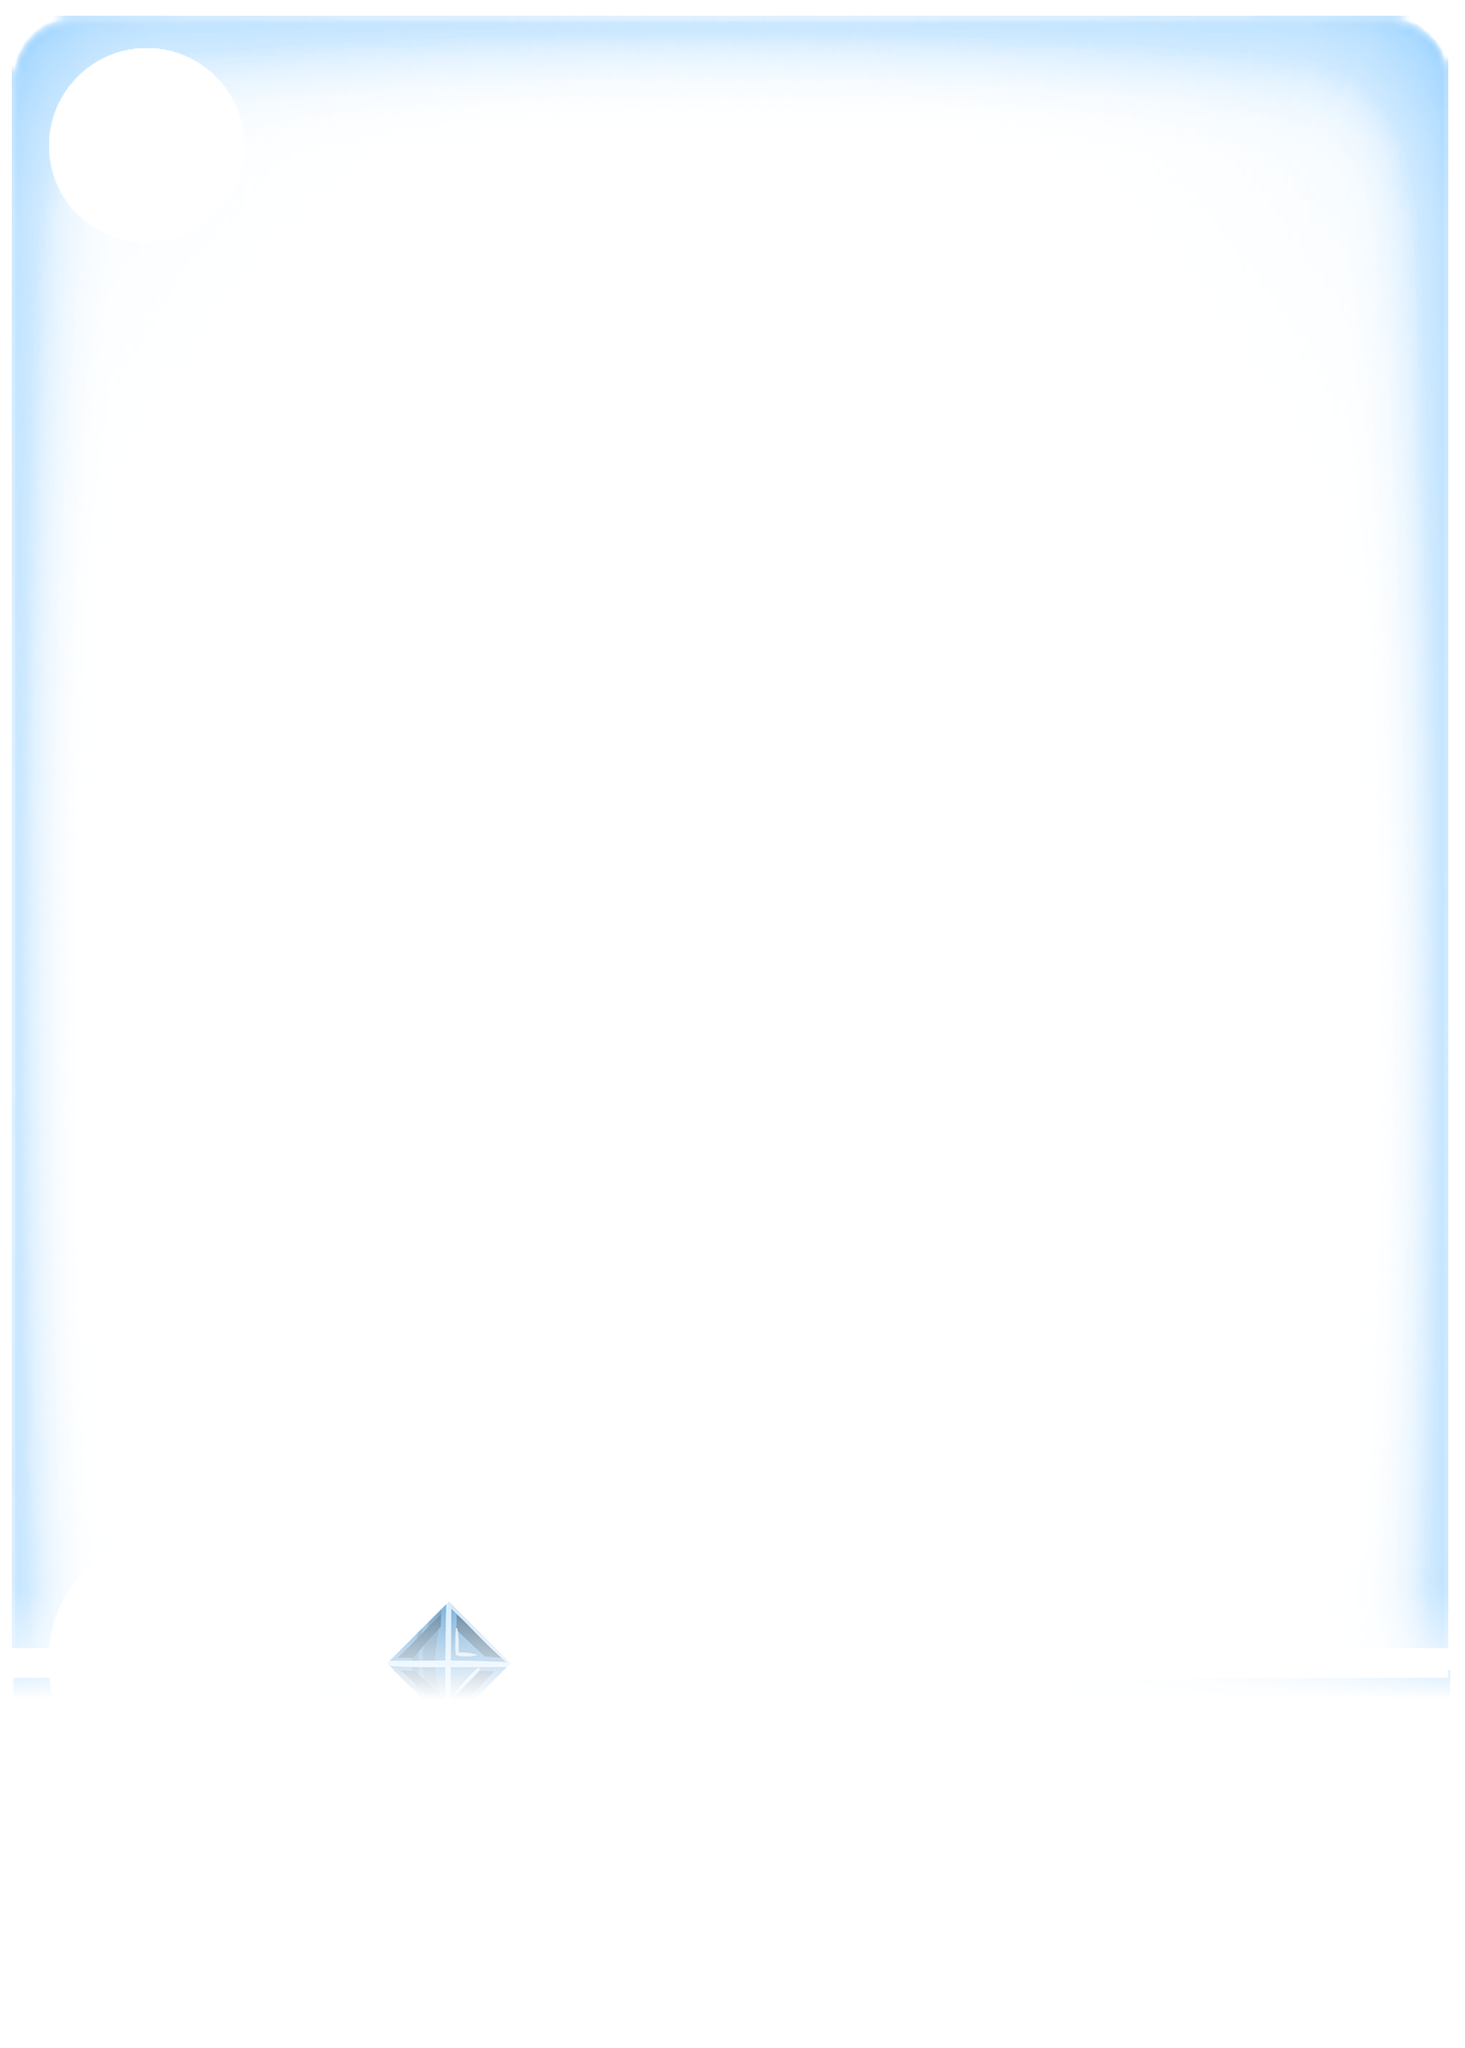
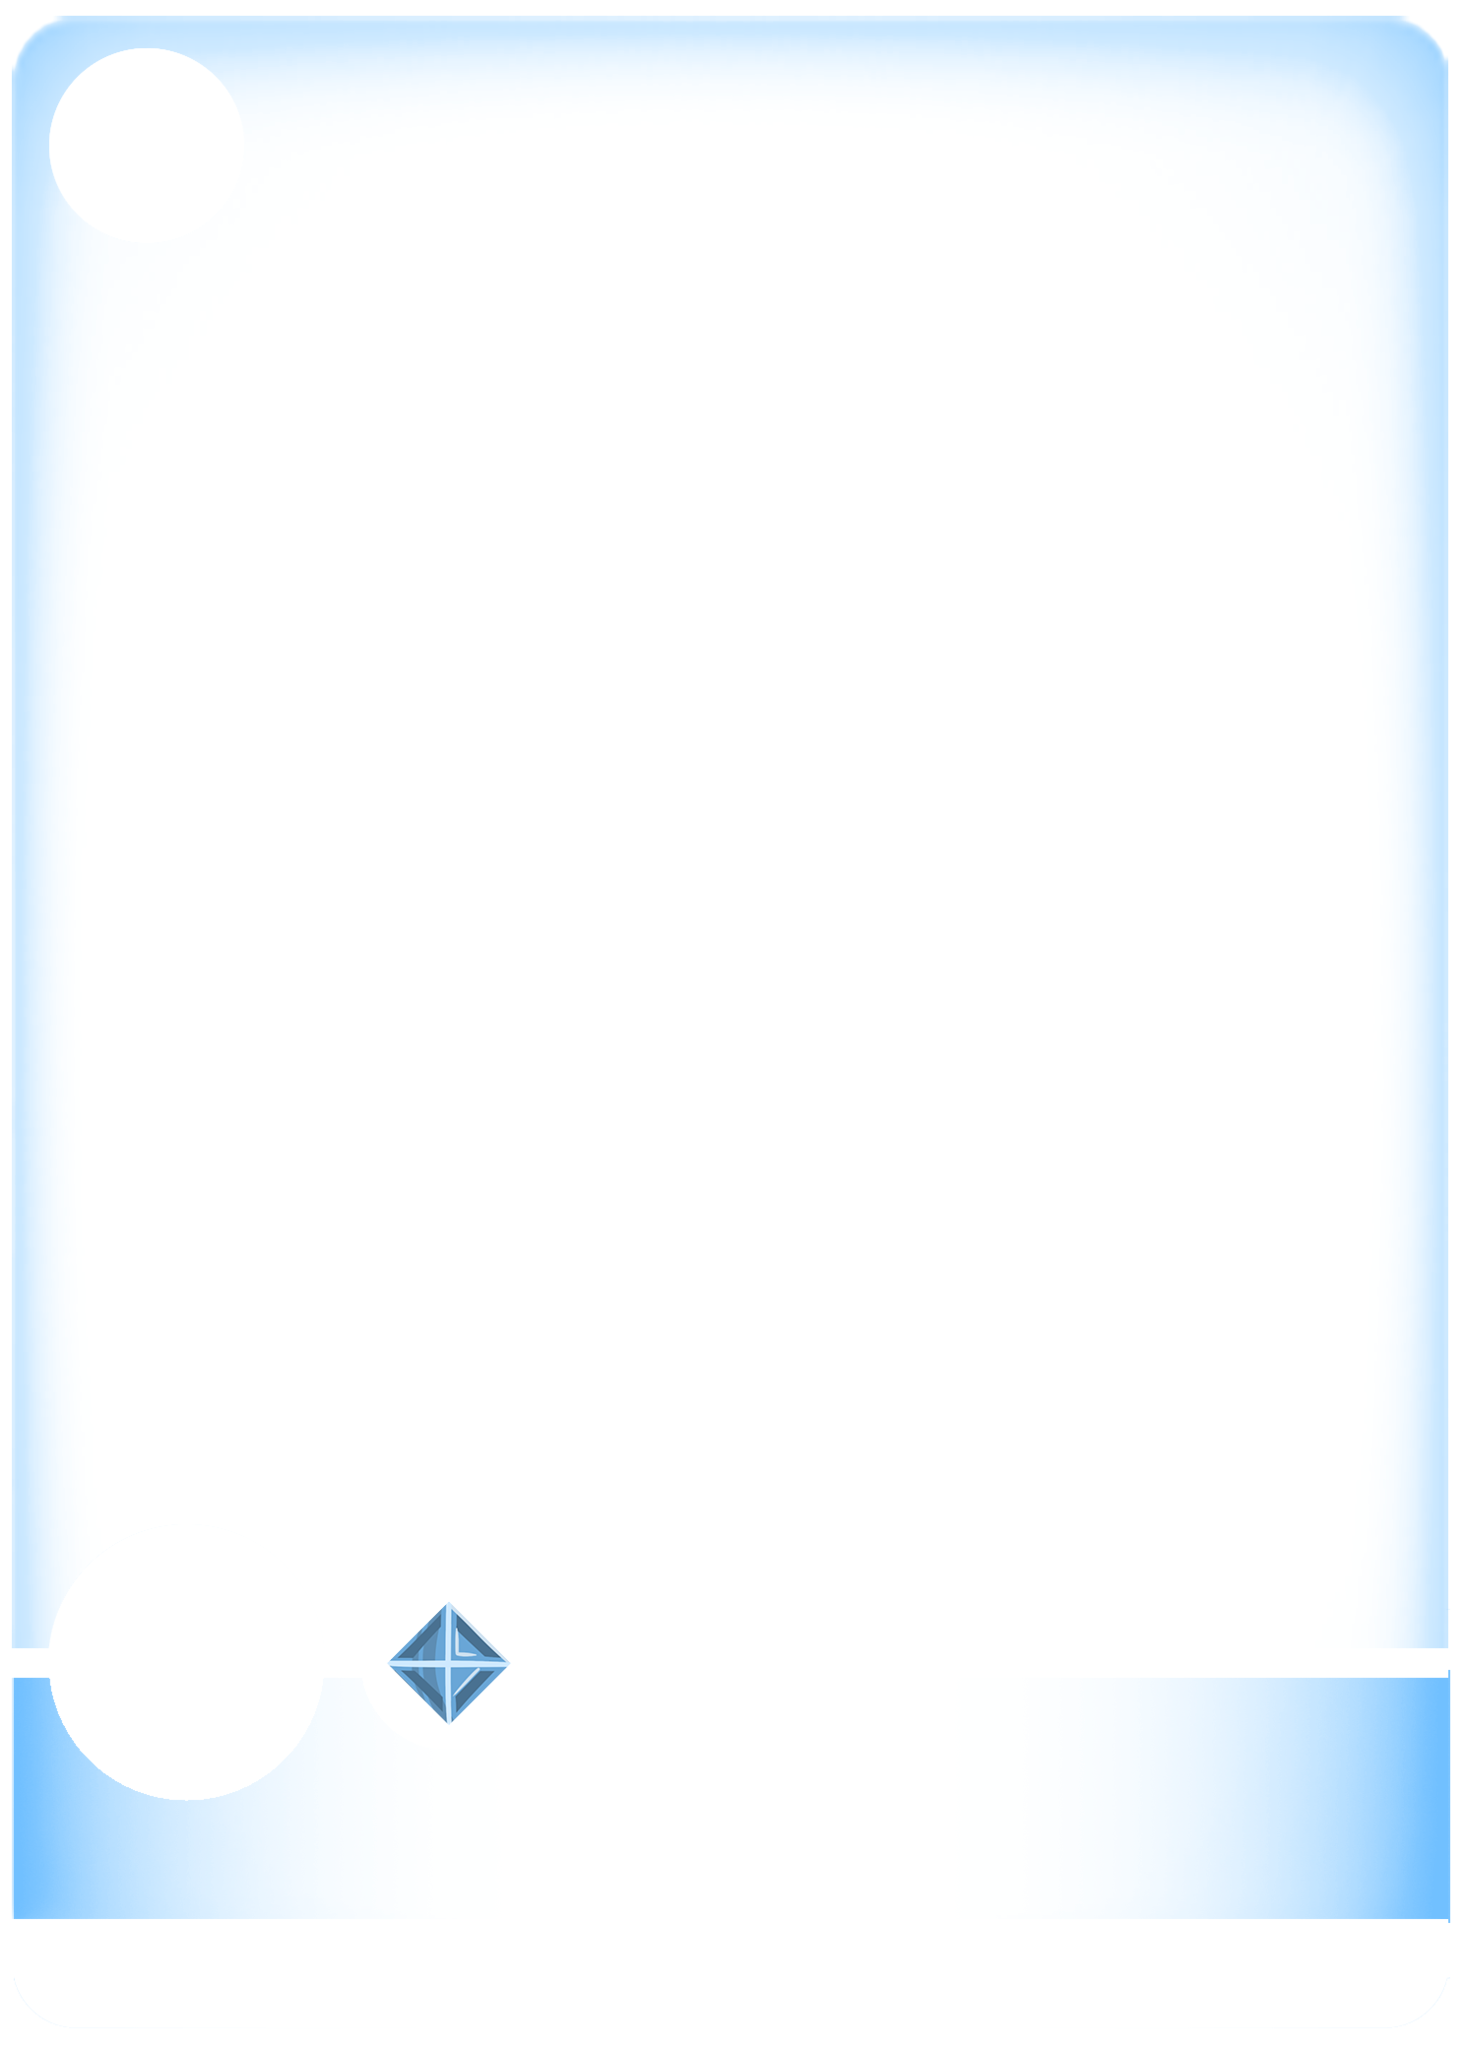
feat: split card layers (bg/smoke/pattern/body/text), static normal smoke

Changed region(s): [[0.7986, 0.8125, 1.0, 0.9375], [0.0, 0.8125, 0.1843, 0.9375], [0.2765, 0.7812, 0.3379, 0.8438]]

diff --git a/webcard.py b/webcard.py
@@ -2894,6 +2894,112 @@ def _detail_layer_js(rel: str | None, z: float = 0.030, order: float = 6.0) -> s
     )
 
 
+def _pattern_layer_js(rel: str | None, z: float = 0.014, order: float = 4.6) -> str:
+    """版本图案层（闪卡星点 / αβΩ 字样 / Promo 花纹）。
+
+    以前这些图案印在卡面底图里，3D 上又叠了一份卡封 → αβΩ 出现两份。
+    现在单独成层：加色混合（RGB 已经是「该加多少光」，黑底合成出来的），
+    位置在烟雾之上、主体层之下 —— 立绘照样把它遮住，与游戏一致。
+    """
+    if not rel:
+        return ""
+    vert = (
+        "varying vec2 vUv;\n"
+        "void main() { vUv = uv; gl_Position = projectionMatrix * modelViewMatrix * vec4(position, 1.0); }\n"
+    )
+    frag = (
+        "uniform sampler2D uMap;\n"
+        "varying vec2 vUv;\n"
+        "void main() { vec4 c = texture2D(uMap, vUv); gl_FragColor = vec4(c.rgb, 1.0); }\n"
+    )
+    return (
+        "(function () {\n"
+        "  var t = new THREE.TextureLoader().load(" + json.dumps(rel) + ");\n"
+        "  t.colorSpace = THREE.NoColorSpace;\n"
+        "  t.anisotropy = 8;\n"
+        "  t.minFilter = THREE.LinearMipmapLinearFilter;\n"
+        "  var m = new THREE.ShaderMaterial({\n"
+        "    uniforms: { uMap: { value: t } },\n"
+        "    vertexShader: " + json.dumps(vert) + ",\n"
+        "    fragmentShader: " + json.dumps(frag) + ",\n"
+        "    transparent: true, depthWrite: false, depthTest: true,\n"
+        "    blending: THREE.AdditiveBlending\n"
+        "  });\n"
+        "  var mesh = new THREE.Mesh(new THREE.PlaneGeometry(CARD_WIDTH, CARD_HEIGHT), m);\n"
+        "  mesh.position.set(0, 0, " + str(z) + ");\n"
+        "  mesh.renderOrder = " + str(order) + ";\n"
+        "  flipGroup.add(mesh);\n"
+        "})();\n"
+    )
+
+
+def _smoke_layer_js(rel: str | None, noise_rel: str | None = None,
+                    strength: float = 1.0, speed: float = 1.0, amt: float = 1.0,
+                    z: float = 0.008, order: float = 3.0) -> str:
+    """元素烟雾层（元素底纹）。amt>0 时做「无净平移的旋涡位移」。
+
+    位移用噪声梯度旋转 90° 当角速度（curl），净位移为 0 —— 是原地翻涌，
+    不是整块平面平移，所以底座与图案不会跟着走。amt=0 时原样直通（普通版不流动）。
+    """
+    if not rel:
+        return ""
+    moving = bool(noise_rel) and amt > 0.0
+    if not moving:
+        return _detail_layer_js(rel, z=z, order=order)
+    vert = (
+        "varying vec2 vUv;\n"
+        "void main() { vUv = uv; gl_Position = projectionMatrix * modelViewMatrix * vec4(position, 1.0); }\n"
+    )
+    frag = (
+        "uniform sampler2D uMap;\n"
+        "uniform sampler2D uNoise;\n"
+        "uniform float uTime, uSpeed, uAmt, uAspect;\n"
+        "varying vec2 vUv;\n"
+        "float smokeRound(vec2 uv, float radius) {\n"
+        "  vec2 scaled = vec2((uv.x - 0.5) * uAspect, uv.y - 0.5);\n"
+        "  vec2 halfSize = vec2(0.5 * uAspect, 0.5);\n"
+        "  vec2 edge = abs(scaled) - (halfSize - vec2(radius));\n"
+        "  return length(max(edge, 0.0)) + min(max(edge.x, edge.y), 0.0) - radius;\n"
+        "}\n"
+        "void main() {\n"
+        "  if (smokeRound(vUv, 0.032) > 0.0) discard;\n"
+        "  float ft = uTime * uSpeed;\n"
+        "  vec2 n1 = texture2D(uNoise, vUv * vec2(0.62, 0.82) + vec2(ft * 0.052, -ft * 0.040)).rg - 0.5;\n"
+        "  vec2 n2 = texture2D(uNoise, vUv * vec2(2.10, 2.70) + vec2(-ft * 0.095, ft * 0.072)).rg - 0.5;\n"
+        "  vec2 sw = vec2(-n1.y, n1.x) * 0.0215 + vec2(-n2.y, n2.x) * 0.0062;\n"
+        "  vec2 uv = clamp(vUv + sw * uAmt, 0.0, 1.0);\n"
+        "  vec4 c = texture2D(uMap, uv);\n"
+        "  gl_FragColor = vec4(c.rgb, c.a * " + str(float(strength)) + ");\n"
+        "}\n"
+    )
+    return (
+        "(function () {\n"
+        "  var t = new THREE.TextureLoader().load(" + json.dumps(rel) + ");\n"
+        "  t.colorSpace = THREE.NoColorSpace;\n"
+        "  t.anisotropy = 8;\n"
+        "  t.minFilter = THREE.LinearMipmapLinearFilter;\n"
+        "  var nt = new THREE.TextureLoader().load(" + json.dumps(noise_rel) + ");\n"
+        "  nt.wrapS = THREE.RepeatWrapping; nt.wrapT = THREE.RepeatWrapping;\n"
+        "  nt.colorSpace = THREE.NoColorSpace;\n"
+        "  var m = new THREE.ShaderMaterial({\n"
+        "    uniforms: { uMap: { value: t }, uNoise: { value: nt },\n"
+        "      uTime: { value: 0 }, uSpeed: { value: " + str(float(speed)) + " },\n"
+        "      uAmt: { value: " + str(float(amt)) + " },\n"
+        "      uAspect: { value: CARD_WIDTH / CARD_HEIGHT } },\n"
+        "    vertexShader: " + json.dumps(vert) + ",\n"
+        "    fragmentShader: " + json.dumps(frag) + ",\n"
+        "    transparent: true, depthWrite: false, depthTest: true,\n"
+        "    blending: THREE.NormalBlending\n"
+        "  });\n"
+        "  var mesh = new THREE.Mesh(new THREE.PlaneGeometry(CARD_WIDTH, CARD_HEIGHT), m);\n"
+        "  mesh.position.set(0, 0, " + str(z) + ");\n"
+        "  mesh.renderOrder = " + str(order) + ";\n"
+        "  flipGroup.add(mesh);\n"
+        "  (window.__flowMats = window.__flowMats || []).push(m);\n"
+        "})();\n"
+    )
+
+
 _SEAL_TICK_JS = (
     "  // 膜光效完全由视角驱动（拖动旋转触发）：无时间动画、无指针光球，杜绝频闪\n"
     "  // 例外：流动背景层只让**印刷背景**随时间漂移（立绘/UI 由掩码固定），\n"
@@ -3480,7 +3586,14 @@ def build_card_html(name: str, front_rel: str, foreground_rel: str, back_rel: st
                     seal_sheen_base: float = 0.03,
                     seal_band_power: float = 4.0,
                     seal_extra: list | None = None,
-    detail_rel: str | None = None,
+                    detail_rel: str | None = None,
+                    smoke_rel: str | None = None,
+                    smoke_noise_rel: str | None = None,
+                    smoke_amt: float = 0.0,
+                    smoke_speed: float = 1.0,
+                    smoke_strength: float = 1.0,
+                    pattern_rel: str | None = None,
+                    text_rel: str | None = None,
                     flow_mask_rel: str | None = None,
                     flow_noise_rel: str | None = None,
                     flow_amt: float = 0.0,
@@ -3669,7 +3782,16 @@ def build_card_html(name: str, front_rel: str, foreground_rel: str, back_rel: st
             "      uFlowTime: { value: 0 },\n"
         )
 
+    # 图层叠放（从纸到人眼）：
+    #   底图(z0) → 烟雾(z0.008) → 版本图案(z0.014) → 卡封1(z0.010~) → 主体(z0.030)
+    #   → 卡封2 稀有度框(z0.034) → 文字(z0.036)
+    smoke_layer = _smoke_layer_js(smoke_rel, smoke_noise_rel,
+                                  strength=float(smoke_strength),
+                                  speed=float(smoke_speed),
+                                  amt=float(smoke_amt))
+    pattern_layer = _pattern_layer_js(pattern_rel)
     detail_layer = _detail_layer_js(detail_rel)
+    text_layer = _detail_layer_js(text_rel, z=0.036, order=7.5)
 
     seal_extra_layer = ""
     for _i, _ex in enumerate(seal_extra or []):
@@ -3723,7 +3845,8 @@ def build_card_html(name: str, front_rel: str, foreground_rel: str, back_rel: st
         .replace("__FLOW_WARP__", flow_warp)
         .replace("__FLOW_UNIFORM_VALUES__", flow_uniform_values)
         .replace("__SEAL_LAYER__", seal_layer + seal_frame_layer + seal_extra_layer
-                 + detail_layer + scale_js + mask_js + offset_js)
+                 + detail_layer + text_layer + smoke_layer + pattern_layer
+                 + scale_js + mask_js + offset_js)
         .replace("__SEAL_TICK__", _SEAL_TICK_JS)
         .replace("__GLOW_TICK__", _GLOW_TICK_JS)
         .replace("__GLOW_INIT__", _glow_init_js(glow_name, glow_strength, glow_boost))

diff --git a/cardforge.py b/cardforge.py
@@ -439,6 +439,13 @@ def make_card(
     seal_band_power: float = 4.0,
     seal_extra: list | None = None,
     detail: str | None = None,
+    smoke: str | None = None,
+    smoke_amt: float = 0.0,
+    smoke_speed: float = 1.0,
+    smoke_strength: float = 1.0,
+    smoke_noise: str | None = None,
+    pattern: str | None = None,
+    text_layer: str | None = None,
     flow_mask_rel: str | None = None,
     flow_noise_rel: str | None = None,
     flow_amt: float = 1.0,
@@ -724,6 +731,31 @@ def make_card(
         if _dp.exists():
             shutil.copy(_dp, out_dir / "detail.png")
             detail_rel = "detail.png"
+    # 分层素材：烟雾（可流动，静止在主体之下）、版本图案（归卡封组）、文字（最上层）
+    smoke_rel = None
+    if smoke:
+        _sp = Path(smoke)
+        if _sp.exists():
+            shutil.copy(_sp, out_dir / "smoke.png")
+            smoke_rel = "smoke.png"
+    smoke_noise_rel = None
+    if smoke_noise:
+        _np = Path(smoke_noise)
+        if _np.exists():
+            shutil.copy(_np, out_dir / "smoke_noise.png")
+            smoke_noise_rel = "smoke_noise.png"
+    pattern_rel = None
+    if pattern:
+        _pp = Path(pattern)
+        if _pp.exists() and _pp.stat().st_size > 0:
+            shutil.copy(_pp, out_dir / "pattern.png")
+            pattern_rel = "pattern.png"
+    text_rel = None
+    if text_layer:
+        _tp = Path(text_layer)
+        if _tp.exists():
+            shutil.copy(_tp, out_dir / "text.png")
+            text_rel = "text.png"
     # 边框内区域蒙版：整卡内容仅绘制在边框外围以内（3D shader 裁剪，与 2D 一致）
     interior_rel = None
     if frame_path:
@@ -752,6 +784,13 @@ def make_card(
                         seal_band_power=seal_band_power,
                         seal_extra=seal_extra_resolved,
                         detail_rel=detail_rel,
+                        smoke_rel=smoke_rel,
+                        smoke_noise_rel=smoke_noise_rel,
+                        smoke_amt=float(smoke_amt),
+                        smoke_speed=float(smoke_speed),
+                        smoke_strength=float(smoke_strength),
+                        pattern_rel=pattern_rel,
+                        text_rel=text_rel,
                         flow_mask_rel=flow_mask_out,
                         flow_noise_rel=flow_noise_out,
                         flow_amt=float(flow_amt),
